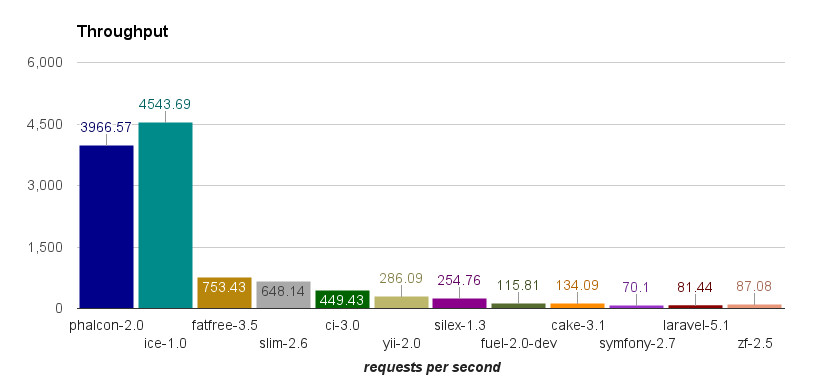
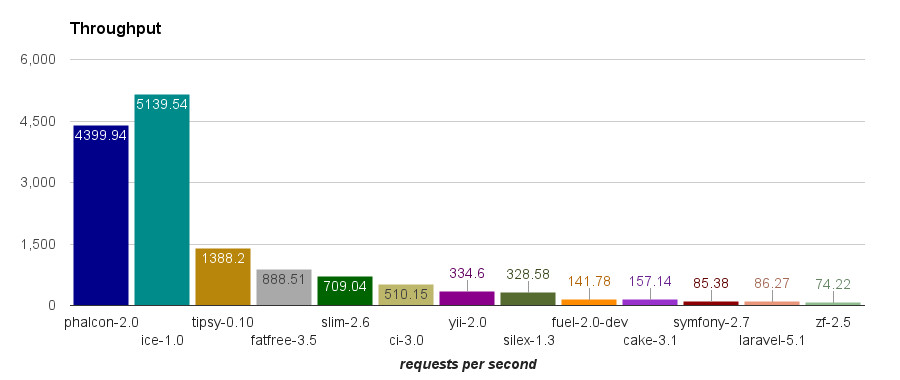
Update benchmark

Changed region(s): [[0.0, 0.2316, 0.9639, 0.9842], [0.0, 0.1447, 0.9639, 0.1737], [0.0602, 0.0579, 0.2108, 0.1158]]

diff --git a/app/modules/doc/views/pl/introduction/benchmark.md b/app/modules/doc/views/pl/introduction/benchmark.md
@@ -9,10 +9,10 @@ Sprzęt użyty do testowania jest następujący:
 * Dysk: SSD 120GB odczyt 540MB/s zapis 480MB/s
 
 #### Oprogramowanie
-* System operacyjny: openSUSE Tubmleweed 20151017 64-bit
-* Kernel: 4.2.1
+* System operacyjny: openSUSE Tubmleweed 20151123 64-bit
+* Kernel: 4.3.0
 * Serwer www: Nginx 1.8.0
-* PHP-FPM: 5.6.14
+* PHP-FPM: 5.6.15
 
 #### Skrypt
 [PHP Framework Benchmark](https://github.com/kenjis/php-framework-benchmark)
@@ -37,15 +37,16 @@ Sprzęt użyty do testowania jest następujący:
 ### Table
 |framework          |requests per second|relative|peak memory|relative|files|relative|
 |-------------------|------------------:|-------:|----------:|-------:|----:|-------:|
-|phalcon-2.0        |           3,966.57|   56.58|       0.29|    1.04|    5|    1.25|
-|ice-1.0            |           4,543.69|   64.82|       0.28|    1.00|    4|    1.00|
-|fatfree-3.5        |             753.43|   10.75|       0.95|    3.39|    9|    2.25|
-|slim-2.6           |             648.14|    9.25|       1.06|    3.79|   24|    6.00|
-|ci-3.0             |             449.43|    6.41|       1.18|    4.21|   26|    6.50|
-|yii-2.0            |             286.09|    4.08|       2.50|    8.93|   49|   12.25|
-|silex-1.3          |             254.76|    3.63|       2.13|    7.61|   64|   16.00|
-|fuel-2.0-dev       |             115.81|    1.65|       3.32|   11.86|  128|   32.00|
-|cake-3.1           |             134.09|    1.91|       4.08|   14.57|   84|   21.00|
-|symfony-2.7        |              70.10|    1.00|       7.89|   28.18|  106|   26.50|
-|laravel-5.1        |              81.44|    1.16|       7.59|   27.11|   39|    9.75|
-|zf-2.5             |              87.08|    1.24|       6.39|   22.82|  204|   51.00|
+|phalcon-2.0        |           4,399.94|   59.28|       0.29|    1.04|    5|    1.25|
+|ice-1.0            |           5,139.54|   69.25|       0.28|    1.00|    4|    1.00|
+|tipsy-0.10         |           1,388.20|   18.70|       0.59|    2.11|   18|    4.50|
+|fatfree-3.5        |             888.51|   11.97|       0.95|    3.39|    9|    2.25|
+|slim-2.6           |             709.04|    9.55|       1.06|    3.79|   24|    6.00|
+|ci-3.0             |             510.15|    6.87|       1.18|    4.21|   26|    6.50|
+|yii-2.0            |             334.60|    4.51|       2.50|    8.93|   49|   12.25|
+|silex-1.3          |             328.58|    4.43|       2.06|    7.36|   64|   16.00|
+|fuel-2.0-dev       |             141.78|    1.91|       3.32|   11.86|  128|   32.00|
+|cake-3.1           |             157.14|    2.12|       4.08|   14.57|   84|   21.00|
+|symfony-2.7        |              85.38|    1.15|       7.90|   28.21|  106|   26.50|
+|laravel-5.1        |              86.27|    1.16|       7.59|   27.11|   39|    9.75|
+|zf-2.5             |              74.22|    1.00|       6.39|   22.82|  204|   51.00|

diff --git a/app/modules/doc/views/en/introduction/benchmark.md b/app/modules/doc/views/en/introduction/benchmark.md
@@ -9,10 +9,10 @@ The testing hardware environment is as follows:
 * Hard Drive: SSD 120GB Read 540MB/s Write 480MB/s
 
 #### Software
-* Operating System: openSUSE Tubmleweed 20151017 64-bit
-* Kernel: 4.2.1
+* Operating System: openSUSE Tubmleweed 20151123 64-bit
+* Kernel: 4.3.0
 * Web Server: Nginx 1.8.0
-* PHP-FPM: 5.6.14
+* PHP-FPM: 5.6.15
 
 #### Script
 [PHP Framework Benchmark](https://github.com/kenjis/php-framework-benchmark)
@@ -37,15 +37,16 @@ The testing hardware environment is as follows:
 ### Table
 |framework          |requests per second|relative|peak memory|relative|files|relative|
 |-------------------|------------------:|-------:|----------:|-------:|----:|-------:|
-|phalcon-2.0        |           3,966.57|   56.58|       0.29|    1.04|    5|    1.25|
-|ice-1.0            |           4,543.69|   64.82|       0.28|    1.00|    4|    1.00|
-|fatfree-3.5        |             753.43|   10.75|       0.95|    3.39|    9|    2.25|
-|slim-2.6           |             648.14|    9.25|       1.06|    3.79|   24|    6.00|
-|ci-3.0             |             449.43|    6.41|       1.18|    4.21|   26|    6.50|
-|yii-2.0            |             286.09|    4.08|       2.50|    8.93|   49|   12.25|
-|silex-1.3          |             254.76|    3.63|       2.13|    7.61|   64|   16.00|
-|fuel-2.0-dev       |             115.81|    1.65|       3.32|   11.86|  128|   32.00|
-|cake-3.1           |             134.09|    1.91|       4.08|   14.57|   84|   21.00|
-|symfony-2.7        |              70.10|    1.00|       7.89|   28.18|  106|   26.50|
-|laravel-5.1        |              81.44|    1.16|       7.59|   27.11|   39|    9.75|
-|zf-2.5             |              87.08|    1.24|       6.39|   22.82|  204|   51.00|
+|phalcon-2.0        |           4,399.94|   59.28|       0.29|    1.04|    5|    1.25|
+|ice-1.0            |           5,139.54|   69.25|       0.28|    1.00|    4|    1.00|
+|tipsy-0.10         |           1,388.20|   18.70|       0.59|    2.11|   18|    4.50|
+|fatfree-3.5        |             888.51|   11.97|       0.95|    3.39|    9|    2.25|
+|slim-2.6           |             709.04|    9.55|       1.06|    3.79|   24|    6.00|
+|ci-3.0             |             510.15|    6.87|       1.18|    4.21|   26|    6.50|
+|yii-2.0            |             334.60|    4.51|       2.50|    8.93|   49|   12.25|
+|silex-1.3          |             328.58|    4.43|       2.06|    7.36|   64|   16.00|
+|fuel-2.0-dev       |             141.78|    1.91|       3.32|   11.86|  128|   32.00|
+|cake-3.1           |             157.14|    2.12|       4.08|   14.57|   84|   21.00|
+|symfony-2.7        |              85.38|    1.15|       7.90|   28.21|  106|   26.50|
+|laravel-5.1        |              86.27|    1.16|       7.59|   27.11|   39|    9.75|
+|zf-2.5             |              74.22|    1.00|       6.39|   22.82|  204|   51.00|
